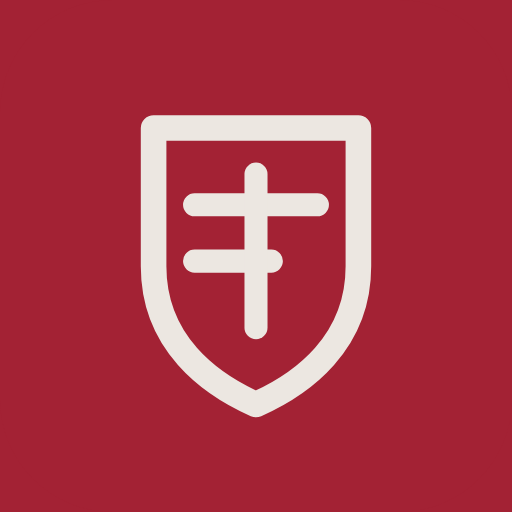
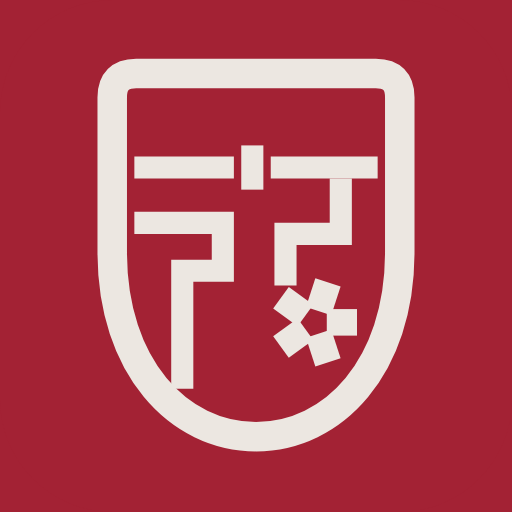
The name is SATashkent, and the crest is redrawn closer to the artwork
THE NAME. It was being set as letter-spaced all-caps, which turned it
into SATASHKENT — a different word. It is SAT, as in the exam, and then
Tashkent, so it is set that way: SATashkent, with the two halves read as
they are said. Fixed in the sidebar, on the login page, in the browser
tab and in the name the installed app takes on a home screen.

THE FACE. The supplied file is FONTSPRING DEMO - Nekst Black, which is
licensed for evaluation and mockups — publishing it as a webfont puts it
on the site for anyone to download, which that licence does not cover. It
also carries no Cyrillic at all: 95 glyphs, Latin and digits, and this
team writes task titles in Cyrillic every day. So the wordmark is set in
Space Grotesk, an open-licence geometric grotesque of much the same
character, and the UI keeps its own stack, which covers the Cyrillic.

Moving to real Nekst, once licensed, is two lines: the .otf in
client/public/ and an @font-face at the front of --font-display. The CSS
says so where somebody will find it.

THE CREST. Redrawn from the supplied artwork. The shield was far too
narrow and its foot too shallow — it is now about four-fifths as wide as
it is tall, straight down the sides and swept into a deep round point.
The rosette was five bars sitting flat and close, which read as one blob;
they are canted against each other now, so the five-point star appears in
the negative space between them, which is how the mark is built. The
[…]

Changed region(s): [[0.1875, 0.0938, 0.8125, 0.9062]]

diff --git a/client/src/components/Logo.jsx b/client/src/components/Logo.jsx
@@ -1,42 +1,61 @@
-// The Satashkent crest, redrawn from the brand mark: a shield holding an open
-// book over the stepped maze pattern, with the five-petal star whose negative
-// space forms a five-point star. `tone` controls the colour so it works on
-// the crimson sidebar (cream) and on white.
-const PETAL = 'M0 -3.4 L-5.8 -9.4 L0 -15.6 L5.8 -9.4 Z'
+// The Satashkent crest, redrawn from the brand mark: a shield holding the
+// stepped Kufic maze, with the pinwheel rosette whose negative space forms a
+// five-point star. `tone` controls the colour so it works on the crimson
+// sidebar (cream) and on white.
+//
+// Proportions follow the supplied artwork: a shield about four-fifths as wide
+// as it is tall, flat across the top with barely-rounded corners, straight
+// down the sides for half its height and then swept into a deep round point.
+// An earlier pass had it far too narrow and the bottom too shallow.
+// Five bars, each pushed out from the centre and canted, so the gap they
+// leave between them IS the five-point star. Sitting them flat and close made
+// one blob; the star only appears when each is turned against its neighbour.
+const ROSETTE = 'M-3.6 -11.4 H3.6 V-3.2 H-3.6 Z'
 
 export default function Logo({ size = 36, tone = 'var(--cream)' }) {
   return (
-    <svg width={size} height={size} viewBox="0 0 100 106" aria-hidden="true">
-      {/* Shield */}
+    <svg width={size} height={size} viewBox="0 0 100 112" aria-hidden="true">
+      {/* The shield */}
       <path
-        d="M16 15 Q16 8 23 8 H77 Q84 8 84 15 V54 C84 82 68 99.5 50 99.5 C32 99.5 16 82 16 54 Z"
+        d="M11 13 Q11 6.5 17.5 6.5 H82.5 Q89 6.5 89 13 V55 C89 86 71 105 50 105 C29 105 11 86 11 55 Z"
         fill="none"
         stroke={tone}
-        strokeWidth="7"
+        strokeWidth="8"
         strokeLinejoin="round"
       />
-      {/* Open book above the top bar */}
-      <path
-        d="M29 29.5 C32.5 25.5 36.5 25.5 40 29 C43.5 25.5 47.5 25.5 51 29.5"
-        fill="none"
-        stroke={tone}
-        strokeWidth="5"
-        strokeLinecap="round"
-      />
-      {/* Maze: top bar with its doorway, the right descender, the left steps */}
-      <g fill="none" stroke={tone} strokeWidth="5.5" strokeLinecap="butt" strokeLinejoin="miter">
-        <path d="M19.5 37 H59" />
-        <path d="M67 37 H80.5" />
-        <path d="M70.5 40 V51 H58 V63" />
-        <path d="M19.5 50 H45 V62 H33.5 V90" />
+      {/* The maze: a stepped path falling from the top right to the bottom
+          left, drawn with square ends because every corner in the mark is a
+          right angle. */}
+      <g fill="none" stroke={tone} strokeWidth="6" strokeLinecap="butt" strokeLinejoin="miter">
+        {/* the top bar, its doorway, and the stub that closes it */}
+        <path d="M17 32 H44" />
+        <path d="M54 32 H83" />
+        {/* the right descender turning back in */}
+        <path d="M73 35 V50 H58 V64" />
+        {/* the left bar and the long fall to the foot */}
+        <path d="M17 47 H41 V60 H30 V92" />
       </g>
-      {/* Five-petal star */}
-      <g transform="translate(63.5 73.5)" fill={tone}>
-        {[18, 90, 162, 234, 306].map((a) => (
-          <path key={a} d={PETAL} transform={`rotate(${a})`} />
+      {/* The spine standing in the gap of the top bar. */}
+      <rect x="46" y="26" width="6" height="12" fill={tone} />
+      {/* The rosette: five bars pinwheeled around a five-point star of
+          negative space. */}
+      <g transform="translate(66 74)" fill={tone}>
+        {[0, 72, 144, 216, 288].map((a) => (
+          <path key={a} d={ROSETTE} transform={`rotate(${a + 18})`} />
         ))}
       </g>
     </svg>
+  )
+}
+
+// The wordmark. It is SATashkent — SAT, as in the exam, and then Tashkent —
+// so the two halves are set as they are said. It was being rendered as one
+// shouted SATASHKENT, which reads as a different word entirely.
+export function Wordmark({ tone = 'var(--cream)' }) {
+  return (
+    <span className="logo-word" style={{ color: tone }}>
+      <b className="logo-sat">SAT</b>ashkent
+    </span>
   )
 }
 
@@ -45,7 +64,7 @@ export function LogoLockup({ tone = 'var(--cream)', size = 34, subtitle = true }
     <div className="logo-lockup">
       <Logo size={size} tone={tone} />
       <div className="logo-text">
-        <span className="logo-word" style={{ color: tone }}>SATASHKENT</span>
+        <Wordmark tone={tone} />
         {subtitle && <span className="logo-sub">College Prep Community</span>}
       </div>
     </div>

diff --git a/client/src/styles.css b/client/src/styles.css
@@ -58,6 +58,13 @@
 
   --sidebar-w: 256px;
   --font: 'Inter', system-ui, -apple-system, 'Segoe UI', Roboto, sans-serif;
+  /* The display face, for the wordmark only. The brand face is Nekst, but the
+     file supplied is a Fontspring DEMO — evaluation only, no web embedding,
+     and no Cyrillic, which this team writes in daily. Space Grotesk is the
+     nearest licensed (OFL) geometric grotesque. To move to real Nekst, buy
+     the licence, drop the .otf in client/public/ and add it at the front of
+     this stack behind an @font-face. */
+  --font-display: 'Space Grotesk', 'Archivo', var(--font);
   color-scheme: light;
 }
 
@@ -185,7 +192,11 @@ button { font-family: inherit; }
 
 .logo-lockup { display: flex; align-items: center; gap: 12px; padding: 6px 8px 20px; }
 .logo-text { display: flex; flex-direction: column; line-height: 1.15; }
-.logo-word { font-weight: 800; letter-spacing: 1.5px; font-size: 15px; }
+/* The wordmark is set in the display face, not the UI one, and NOT in caps:
+   the name is SATashkent — SAT, as in the exam, then Tashkent. Letter-spaced
+   all-caps turned it into "SATASHKENT", which is a different word. */
+.logo-word { font-family: var(--font-display); font-weight: 700; letter-spacing: 0; font-size: 17px; }
+.logo-sat { font-weight: 700; letter-spacing: .5px; }
 .logo-sub { font-size: 10.5px; letter-spacing: 0.4px; color: rgba(236, 231, 225, 0.88); }
 
 .nav-label {
@@ -639,7 +650,7 @@ table.tbl tr:hover td { background: var(--surface-2); }
   padding: 34px 30px 28px;
 }
 .login-logo { display: flex; flex-direction: column; align-items: center; gap: 8px; margin-bottom: 24px; }
-.login-word { font-weight: 800; letter-spacing: 1.6px; color: var(--brand-600); font-size: 17px; }
+.login-word { font-family: var(--font-display); font-weight: 700; letter-spacing: 0; color: var(--brand-600); font-size: 22px; }
 .login-tag { font-size: 11px; color: var(--muted); letter-spacing: 0.4px; margin-top: -6px; }
 .login-card h2 { font-size: 20px; font-weight: 800; text-align: center; }
 .login-card .lc-sub { color: var(--muted); text-align: center; margin: 5px 0 22px; font-size: 13.5px; }

diff --git a/client/index.html b/client/index.html
@@ -9,17 +9,23 @@
          than remembering a .vercel.app address. iOS reads the apple- tags and
          ignores the manifest's display mode; everything else reads the
          manifest. -->
+    <!-- The wordmark's face. Latin only is fine: it sets four words of brand
+         text and nothing else — the UI keeps its own stack, which covers the
+         Cyrillic this team writes in. -->
+    <link rel="preconnect" href="https://fonts.googleapis.com" />
+    <link rel="preconnect" href="https://fonts.gstatic.com" crossorigin />
+    <link rel="stylesheet" href="https://fonts.googleapis.com/css2?family=Space+Grotesk:wght@500;700&display=swap" />
     <link rel="manifest" href="/manifest.webmanifest" />
     <link rel="apple-touch-icon" href="/apple-touch-icon.png" />
     <meta name="apple-mobile-web-app-capable" content="yes" />
     <meta name="apple-mobile-web-app-status-bar-style" content="black-translucent" />
-    <meta name="apple-mobile-web-app-title" content="Satashkent" />
+    <meta name="apple-mobile-web-app-title" content="SATashkent" />
     <meta name="mobile-web-app-capable" content="yes" />
-    <meta name="application-name" content="Satashkent" />
+    <meta name="application-name" content="SATashkent" />
     <!-- Windows tiles read these rather than the manifest. -->
     <meta name="msapplication-TileColor" content="#a32234" />
     <meta name="msapplication-TileImage" content="/icon-192.png" />
-    <title>Satashkent · Marketing Dashboard</title>
+    <title>SATashkent · Marketing Dashboard</title>
   </head>
   <body>
     <div id="root"></div>

diff --git a/client/src/components/GetSetUp.jsx b/client/src/components/GetSetUp.jsx
@@ -93,7 +93,7 @@ export default function GetSetUp() {
         <div className="setup-card setup-install">
           <Download size={16} />
           <span className="setup-txt">
-            <b>Put Satashkent on your home screen</b>
+            <b>Put SATashkent on your home screen</b>
             <span className="setup-sub">
               {showIOS
                 ? <>Tap <Share size={12} style={{ verticalAlign: -2 }} /> Share, then <Plus size={12} style={{ verticalAlign: -2 }} /> “Add to Home Screen”. It opens like an app — no address to remember.</>

diff --git a/client/src/pages/Login.jsx b/client/src/pages/Login.jsx
@@ -35,7 +35,7 @@ export default function Login() {
       <div className="login-card">
         <div className="login-logo">
           <Logo size={46} tone="var(--brand-500)" />
-          <div className="login-word">SATASHKENT</div>
+          <div className="login-word"><b className="logo-sat">SAT</b>ashkent</div>
           <div className="login-tag">College Prep Community</div>
         </div>
 
